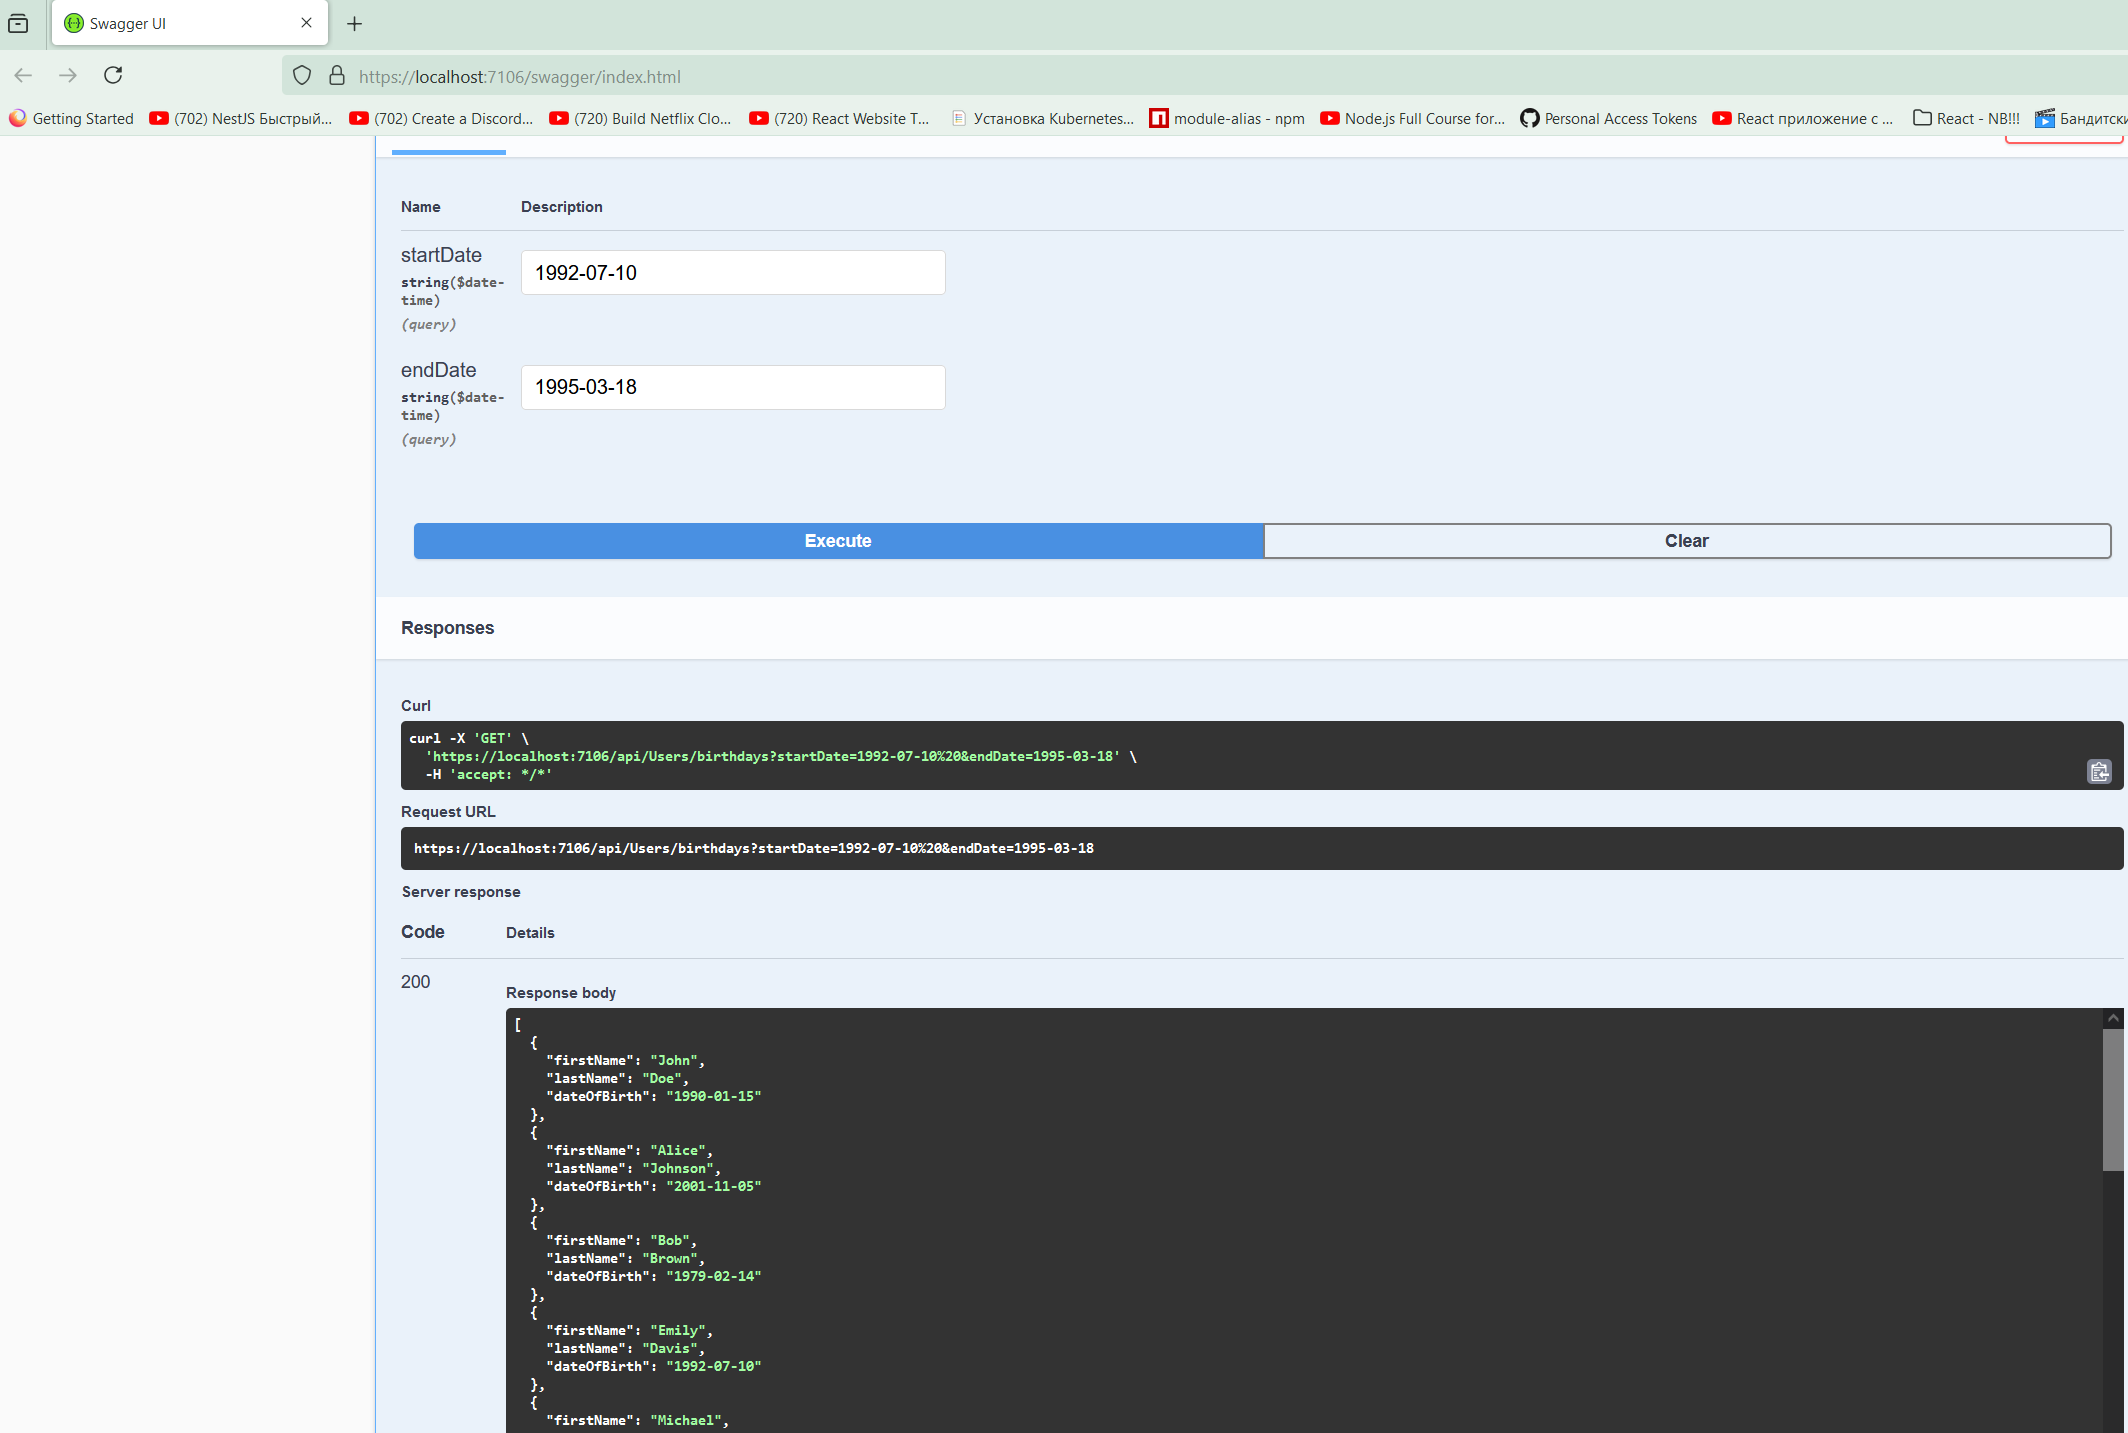
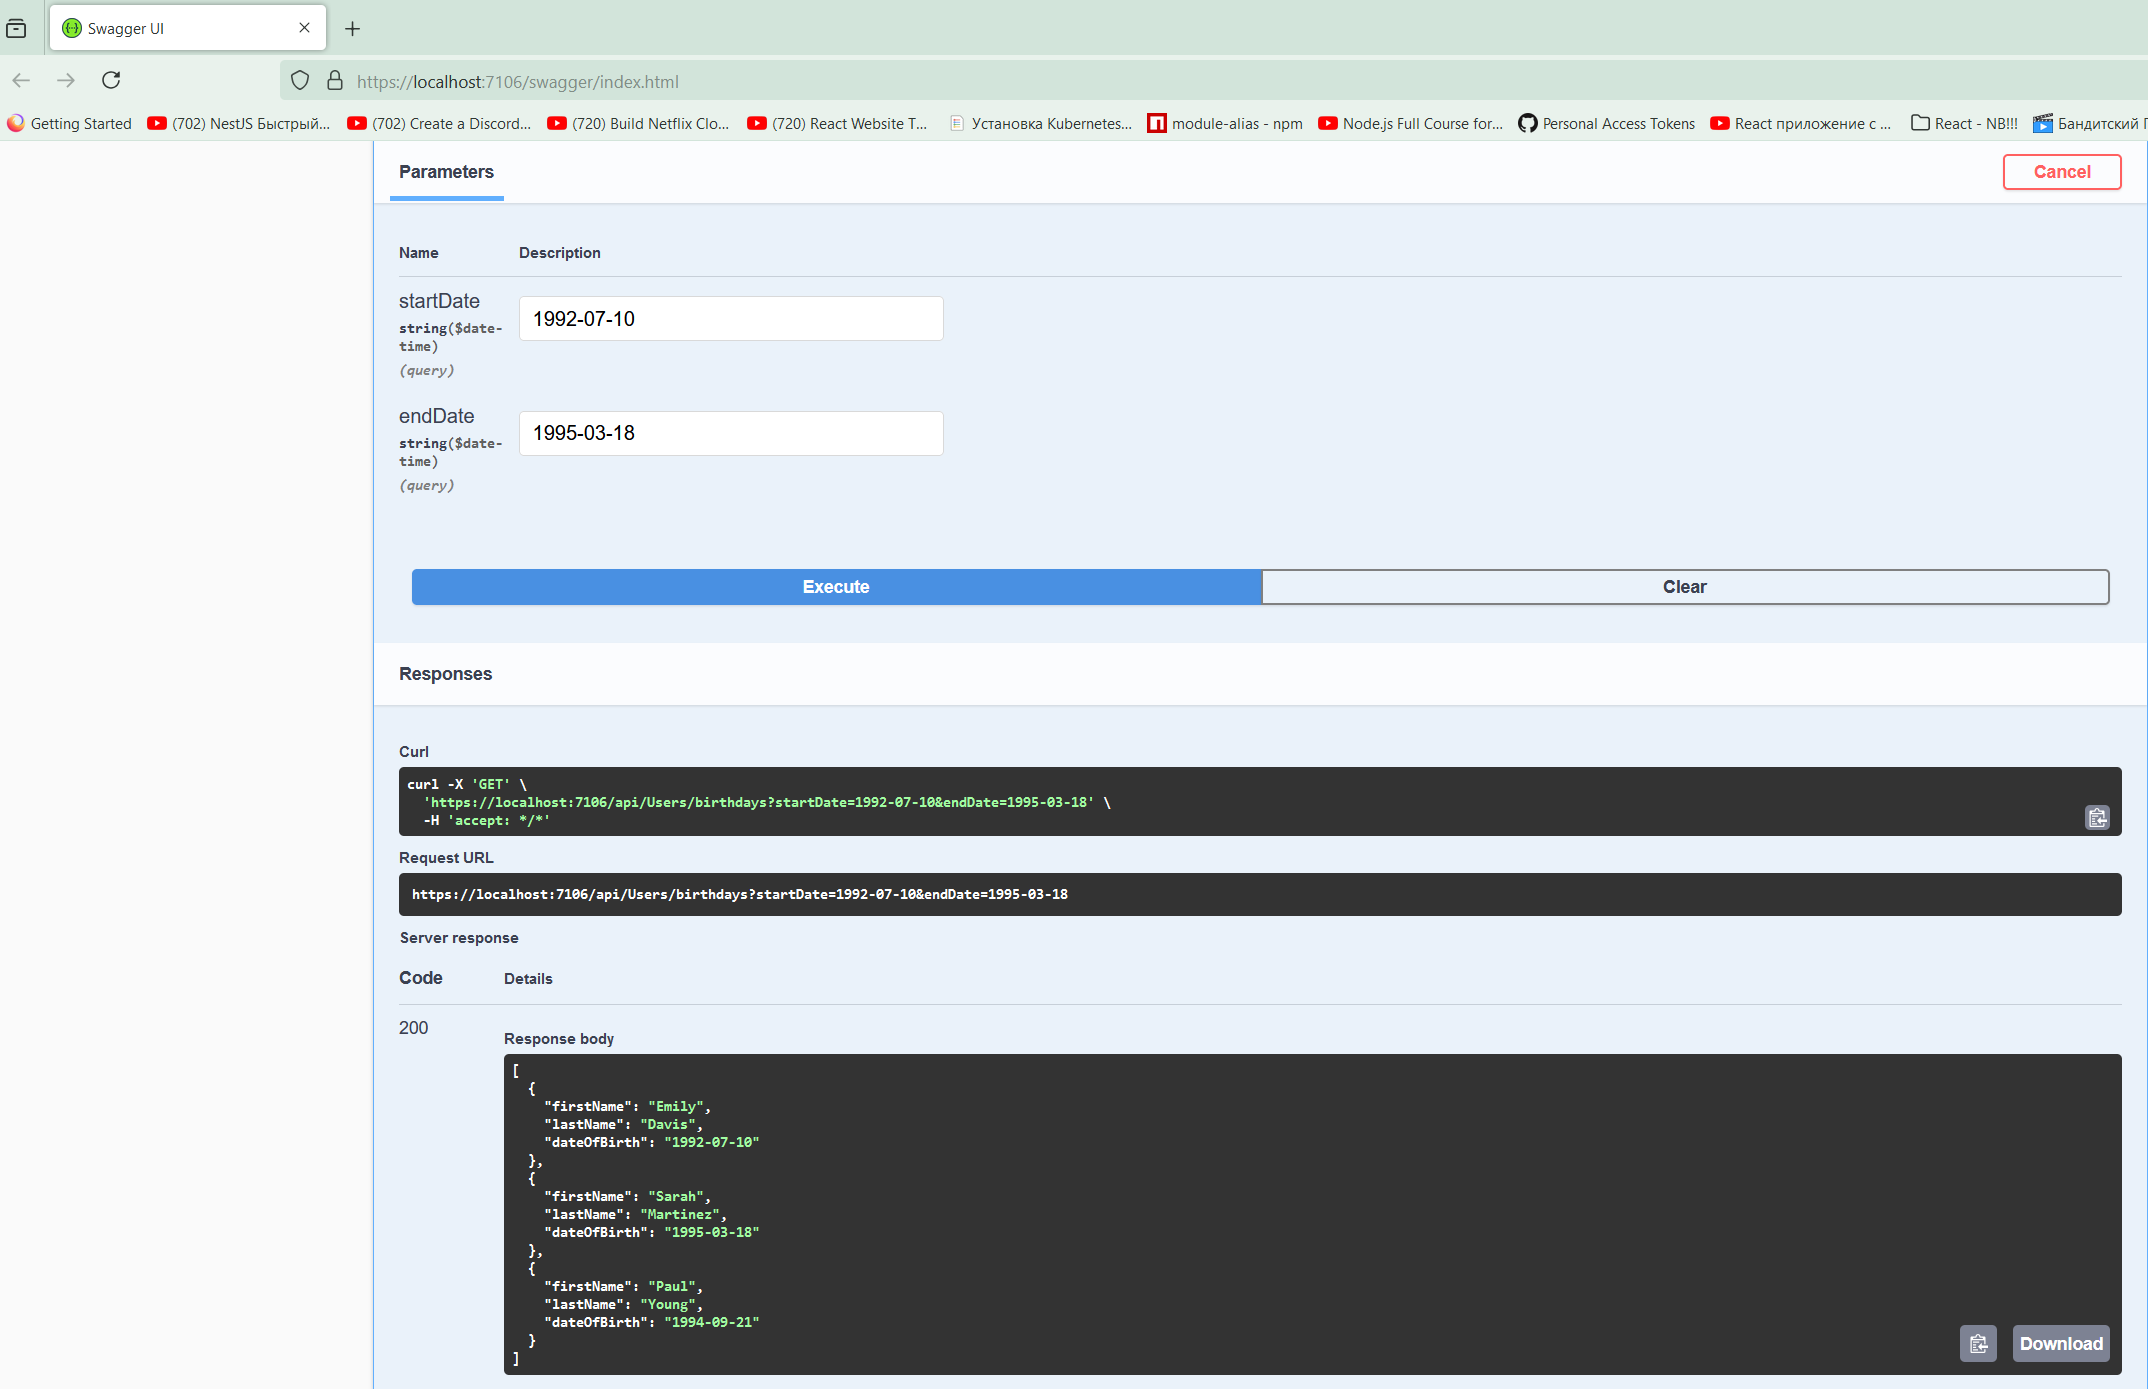
Bug fixed

Changed region(s): [[0.0, 0.0, 1.0, 1.0], [0.7754, 0.3715, 0.8064, 0.4334]]

diff --git a/Controllers/UsersController.cs b/Controllers/UsersController.cs
@@ -16,28 +16,19 @@ namespace DoeTest.Controllers
         private readonly string _jsonFilePath = "users.json"; // Path to your JSON file
 
         [HttpGet("birthdays")]
-        public async Task<IActionResult> GetUsersWithBirthdaysInRange([FromQuery] DateTime? startDate, [FromQuery] DateTime? endDate)
+        public async Task<IActionResult> GetUsersWithBirthdaysInRange([FromQuery] DateTime startDate, [FromQuery] DateTime endDate)
         {
-            // Validate that both startDate and endDate are provided and valid
-            if (!startDate.HasValue || !endDate.HasValue)
+            if (startDate == default || endDate == default)
             {
                 return BadRequest("Both startDate and endDate must be provided.");
             }
 
-            // Validate that startDate is not after endDate
-            if (startDate > endDate)
-            {
-                return BadRequest("The startDate cannot be after the endDate.");
-            }
-
-            // Read the JSON file
             var jsonData = await System.IO.File.ReadAllTextAsync(_jsonFilePath);
             if (string.IsNullOrWhiteSpace(jsonData))
             {
                 return BadRequest("The JSON data is empty or invalid.");
             }
 
-            // Deserialize the JSON content
             List<ApplicationUser> users;
             try
             {
@@ -48,12 +39,6 @@ namespace DoeTest.Controllers
                 return BadRequest("Error deserializing JSON data: " + ex.Message);
             }
 
-            // Convert startDate and endDate to only month and day (ignoring year)
-            var startMonthDay = new DateTime(1, startDate.Value.Month, startDate.Value.Day);
-            var endMonthDay = new DateTime(1, endDate.Value.Month, endDate.Value.Day);
-            bool wrapsAround = startMonthDay > endMonthDay;
-
-            // Filter users by birthday range
             var usersInDateRange = users.Where(user =>
             {
                 if (!DateTime.TryParse(user.DateOfBirthString, out DateTime dateOfBirth))
@@ -61,20 +46,10 @@ namespace DoeTest.Controllers
                     return false;
                 }
 
-                var birthdayMonthDay = new DateTime(1, dateOfBirth.Month, dateOfBirth.Day);
-
-                if (wrapsAround)
-                {
-                    return birthdayMonthDay >= startMonthDay || birthdayMonthDay <= endMonthDay;
-                }
-                else
-                {
-                    return birthdayMonthDay >= startMonthDay && birthdayMonthDay <= endMonthDay;
-                }
+                return dateOfBirth >= startDate && dateOfBirth <= endDate;
             }).ToList();
 
             return Ok(usersInDateRange);
         }
-
     }
 }
